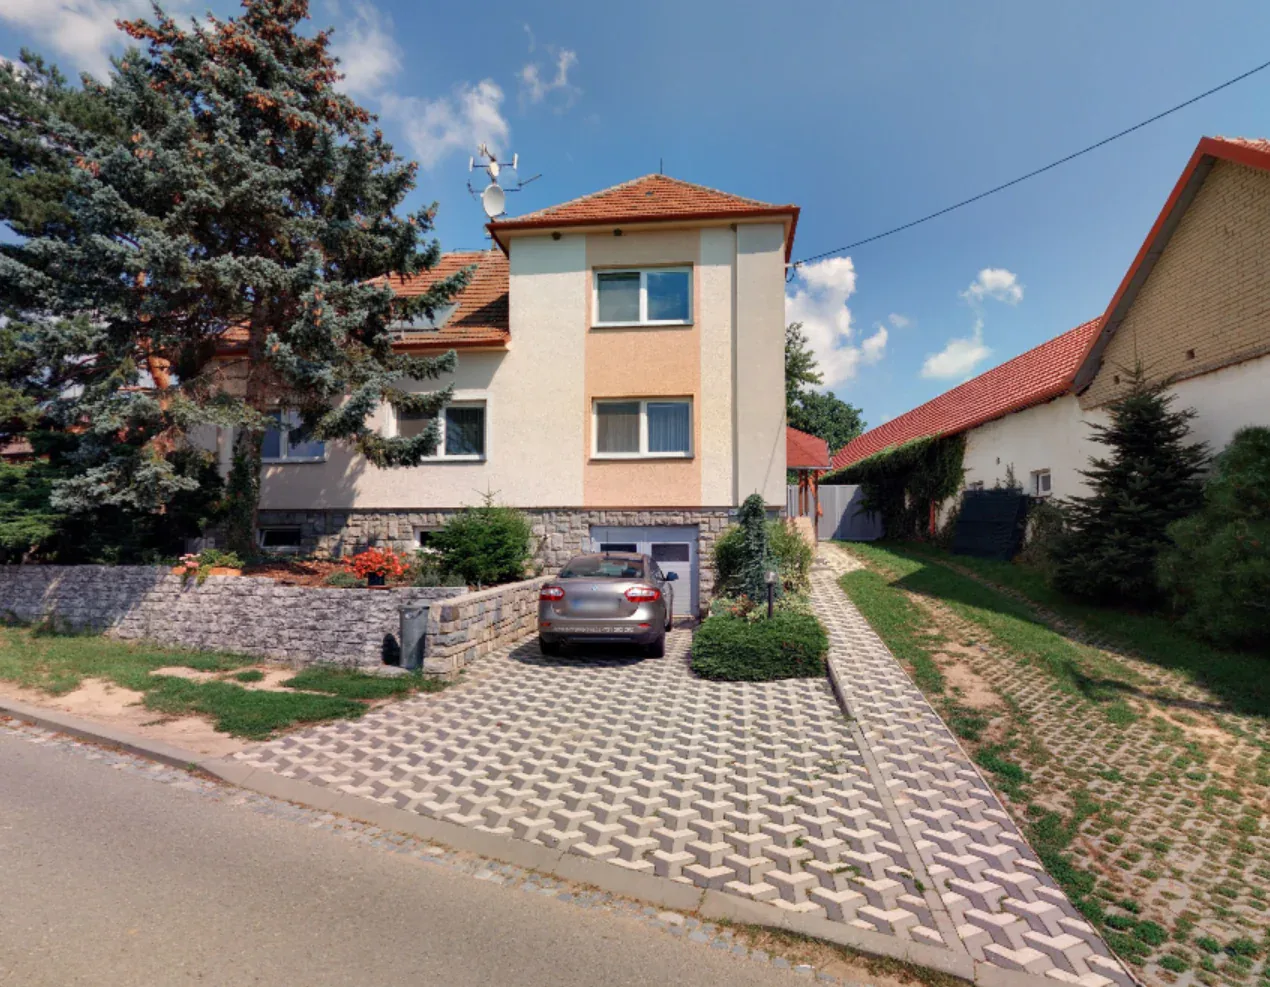
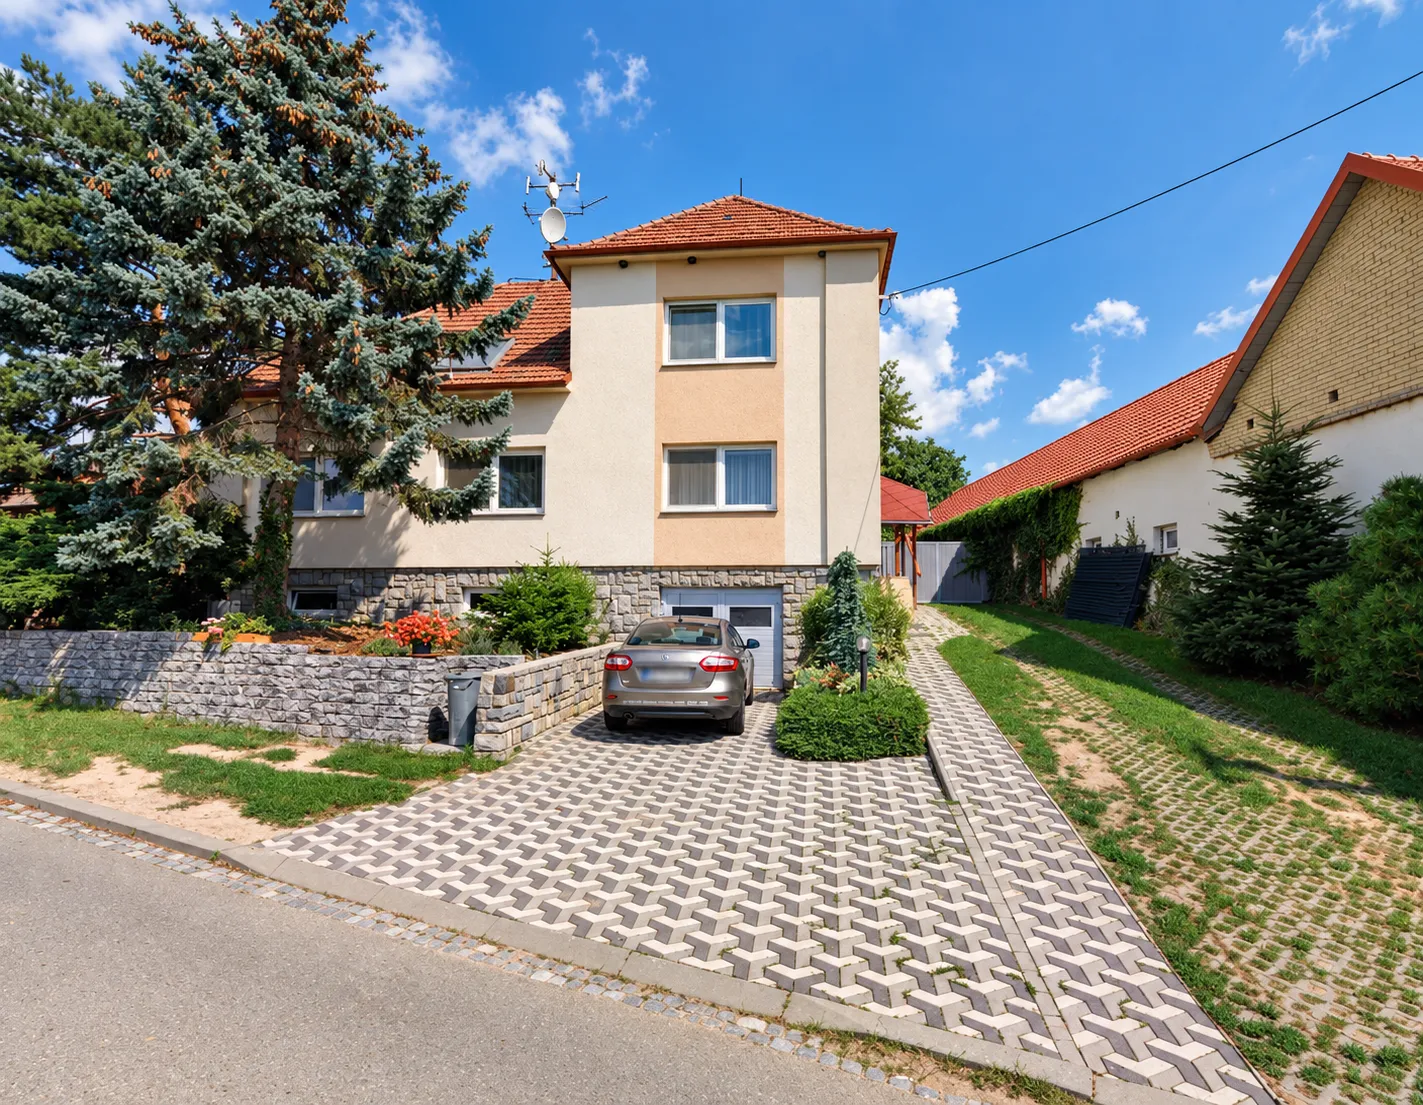
Aktualizace obrázku O nás

diff --git a/index.html b/index.html
@@ -360,7 +360,7 @@
         <a href="#kontakt" class="btn btn--primary">NEZÁVAZNĚ POPTAT</a>
       </div>
       <div class="about__media">
-        <img src="onas.webp" alt="Realizace oplocení na klíč" width="1270" height="987" loading="lazy" decoding="async" />
+        <img src="onas.webp" alt="Realizace oplocení na klíč" width="1423" height="1105" loading="lazy" decoding="async" />
       </div>
     </div>
   </section>
